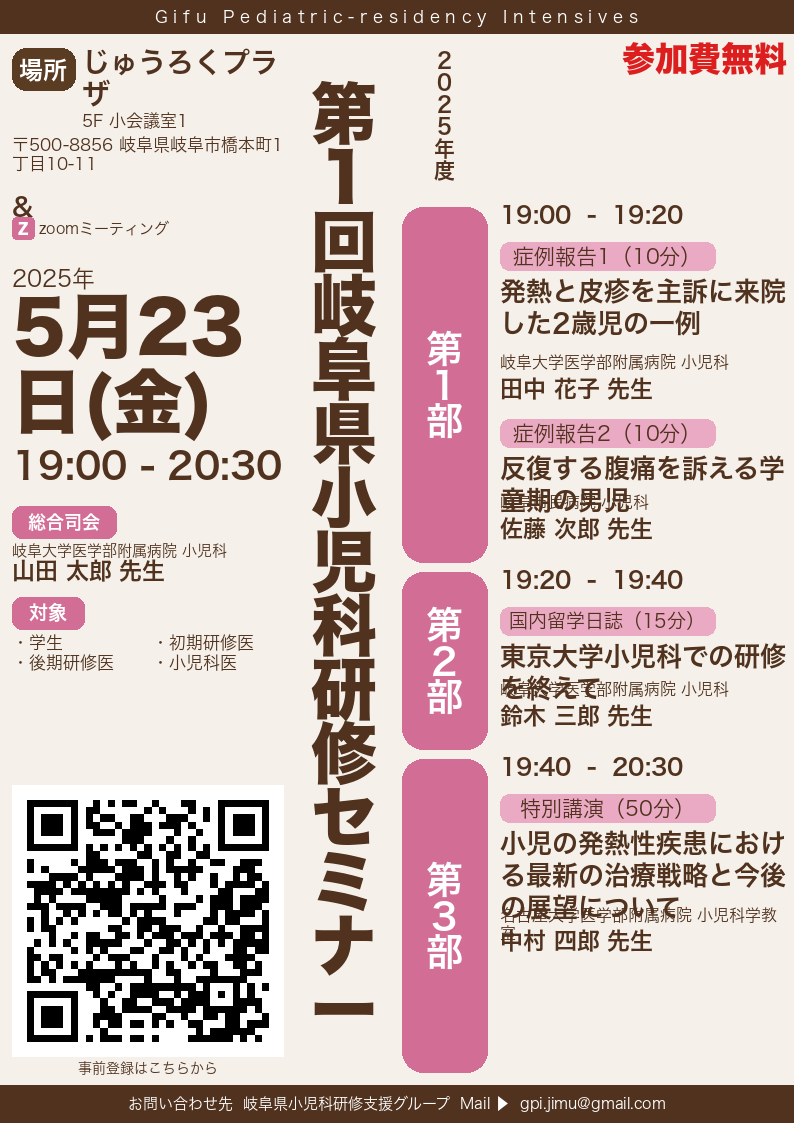
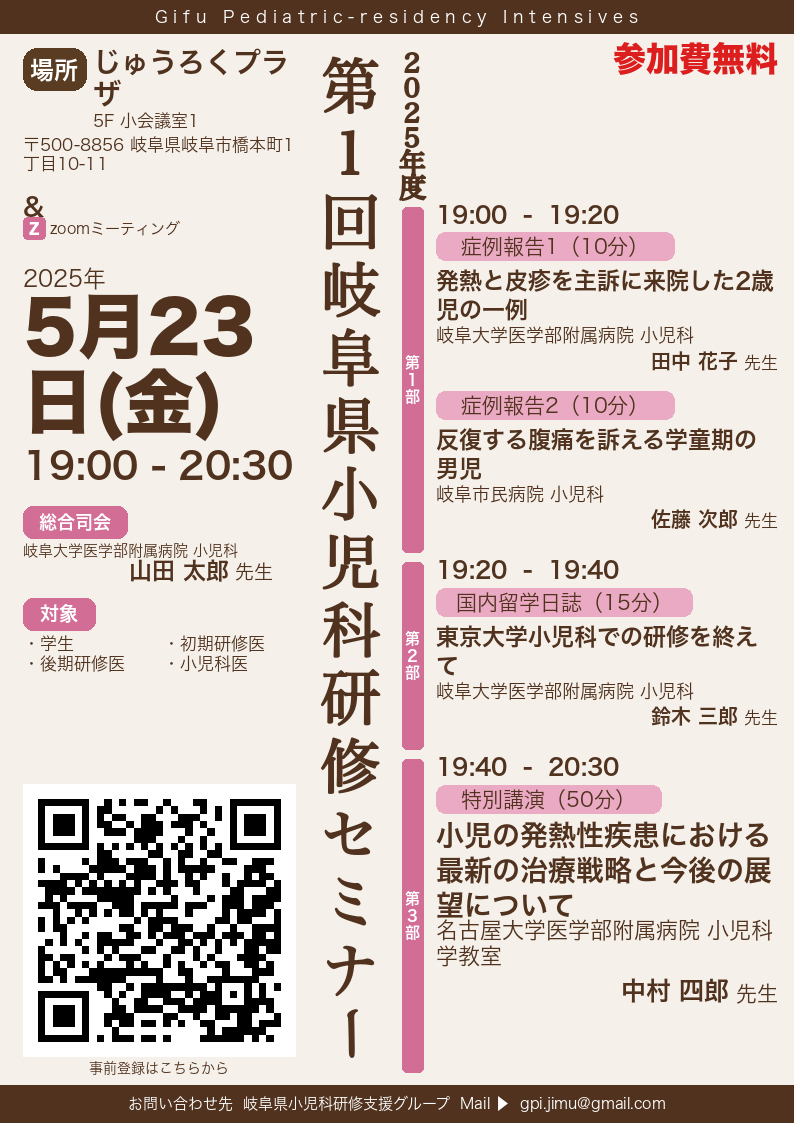
Update affiliation input to text area for better usability and adjust title line estimation in layout engine for improved text handling. Modify section title multipliers for consistent visual spacing.

diff --git a/poster/layout.py b/poster/layout.py
@@ -101,7 +101,7 @@ SECTION_CONTENT_SCALES = [0.90, 0.90, 1.10]
 
 # タイトルブロック高さ乗数（フォントが小さいほど行間余白が詰まるため補正）
 # cs=0.90 のとき 1.35、cs=1.10 のとき 1.20 で視覚的な余白を統一
-SECTION_TITLE_MULTIPLIERS = [1.20, 1.20, 1.20]
+SECTION_TITLE_MULTIPLIERS = [1.20, 1.20, 1.10]
 
 # ─── バッジサイズ (normalized) ───────────────────────────────────────────
 
@@ -170,8 +170,9 @@ class LayoutEngine:
                     "scale": scale,
                 }))
 
-                # タイトル行数推定（prog_w ≈ 341px, 27px/char → 約13文字/行）
-                title_lines = max(1, len(item.title) // 13 + 1)
+                # タイトル行数推定（cs が大きいほど1行の文字数が減る）
+                chars_per_line = max(8, int(13 / cs))
+                title_lines = max(1, len(item.title) // chars_per_line + 1)
                 blocks.append(Block("title", 0, FS_PROG_TITLE * scale * tm * title_lines * cs, {
                     "text": item.title,
                     "scale": scale,
@@ -179,8 +180,12 @@ class LayoutEngine:
                     "lines": title_lines,
                 }))
 
-                # 所属
-                aff_lines = max(1, len(item.affiliation) // 20 + 1)
+                # 所属（手動改行を考慮）
+                aff_text = item.affiliation
+                manual_lines = aff_text.count("\n") + 1
+                aff_chars_per_line = max(10, int(20 / cs))
+                auto_lines = max(1, len(aff_text.replace("\n", "")) // aff_chars_per_line + 1)
+                aff_lines = max(manual_lines, auto_lines)
                 blocks.append(Block("affiliation", 0, FS_PRESENTER * scale * 1.35 * aff_lines * cs, {
                     "text": item.affiliation,
                     "scale": scale,

diff --git a/app.py b/app.py
@@ -479,8 +479,9 @@ elif step == "6. プログラム":
                     )
                 c3, c4 = st.columns(2)
                 with c3:
-                    item["affiliation"] = st.text_input(
-                        "所属", value=item["affiliation"], key=f"aff_{i}_{j}"
+                    item["affiliation"] = st.text_area(
+                        "所属", value=item["affiliation"], key=f"aff_{i}_{j}",
+                        height=70, help="改行したい場合はEnterを押してください"
                     )
                 with c4:
                     item["name"] = st.text_input(
